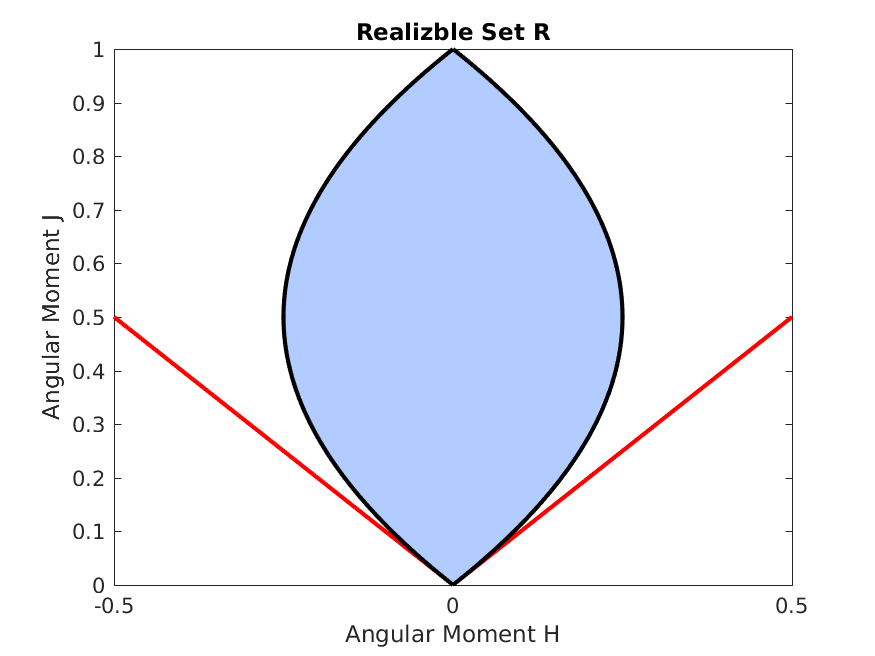
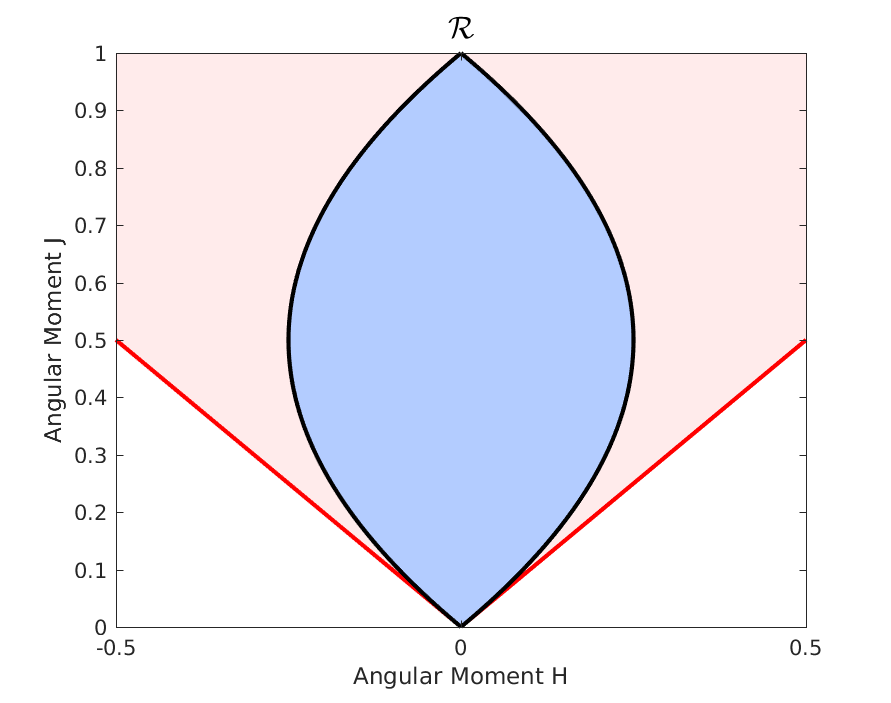
Filled the area between FD and ME boundaries.

diff --git a/Documents/M1/realizableFermionicM1/figures/ConvexSetGenerator.m b/Documents/M1/realizableFermionicM1/figures/ConvexSetGenerator.m
@@ -5,10 +5,17 @@ fig = figure;
 yy = linspace(0.0,1.0,1024)'; hold on
 xxP_FD = + yy.*(1.0-yy);
 xxM_FD = - yy.*(1.0-yy);
+
 xxP_MB = + yy;
 xxM_MB = - yy;
-fill([xxP_FD flip(xxP_FD)],[yy zeros(size(yy))],[0.7 0.8 1.0],'LineStyle','none')
-fill([xxM_FD flip(xxM_FD)],[yy zeros(size(yy))],[0.7 0.8 1.0],'LineStyle','none')
+xxP_MB(end) = 0;
+xxM_MB(end) = 0;
+fill([xxP_MB xxM_MB], [yy yy], [1.0 0.9 0.9],'LineStyle','none')
+alpha(0.8)
+
+xxP_MB = + yy;
+xxM_MB = - yy;
+fill([xxP_FD flip(xxM_FD)],[yy yy],[0.7 0.8 1.0],'LineStyle','none')
 plot( xxP_MB, yy, '-r', 'linewidth', 2 )
 plot( xxM_MB, yy, '-r', 'linewidth', 2 )
 plot( xxP_FD, yy, '-k', 'linewidth', 2 )
@@ -17,7 +24,8 @@ hold off
 axis([-0.5 0.5 0.0 1.0]);
 xlabel('Angular Moment H');
 ylabel('Angular Moment J');
-title('Realizble Set R');
+title('$\mathcal{R}$','Interpreter','LaTeX','Fontsize',15)
 box on
+set(gca, 'Layer', 'top')
 saveas(fig,'RealizableSetFermionic.png');
 return
